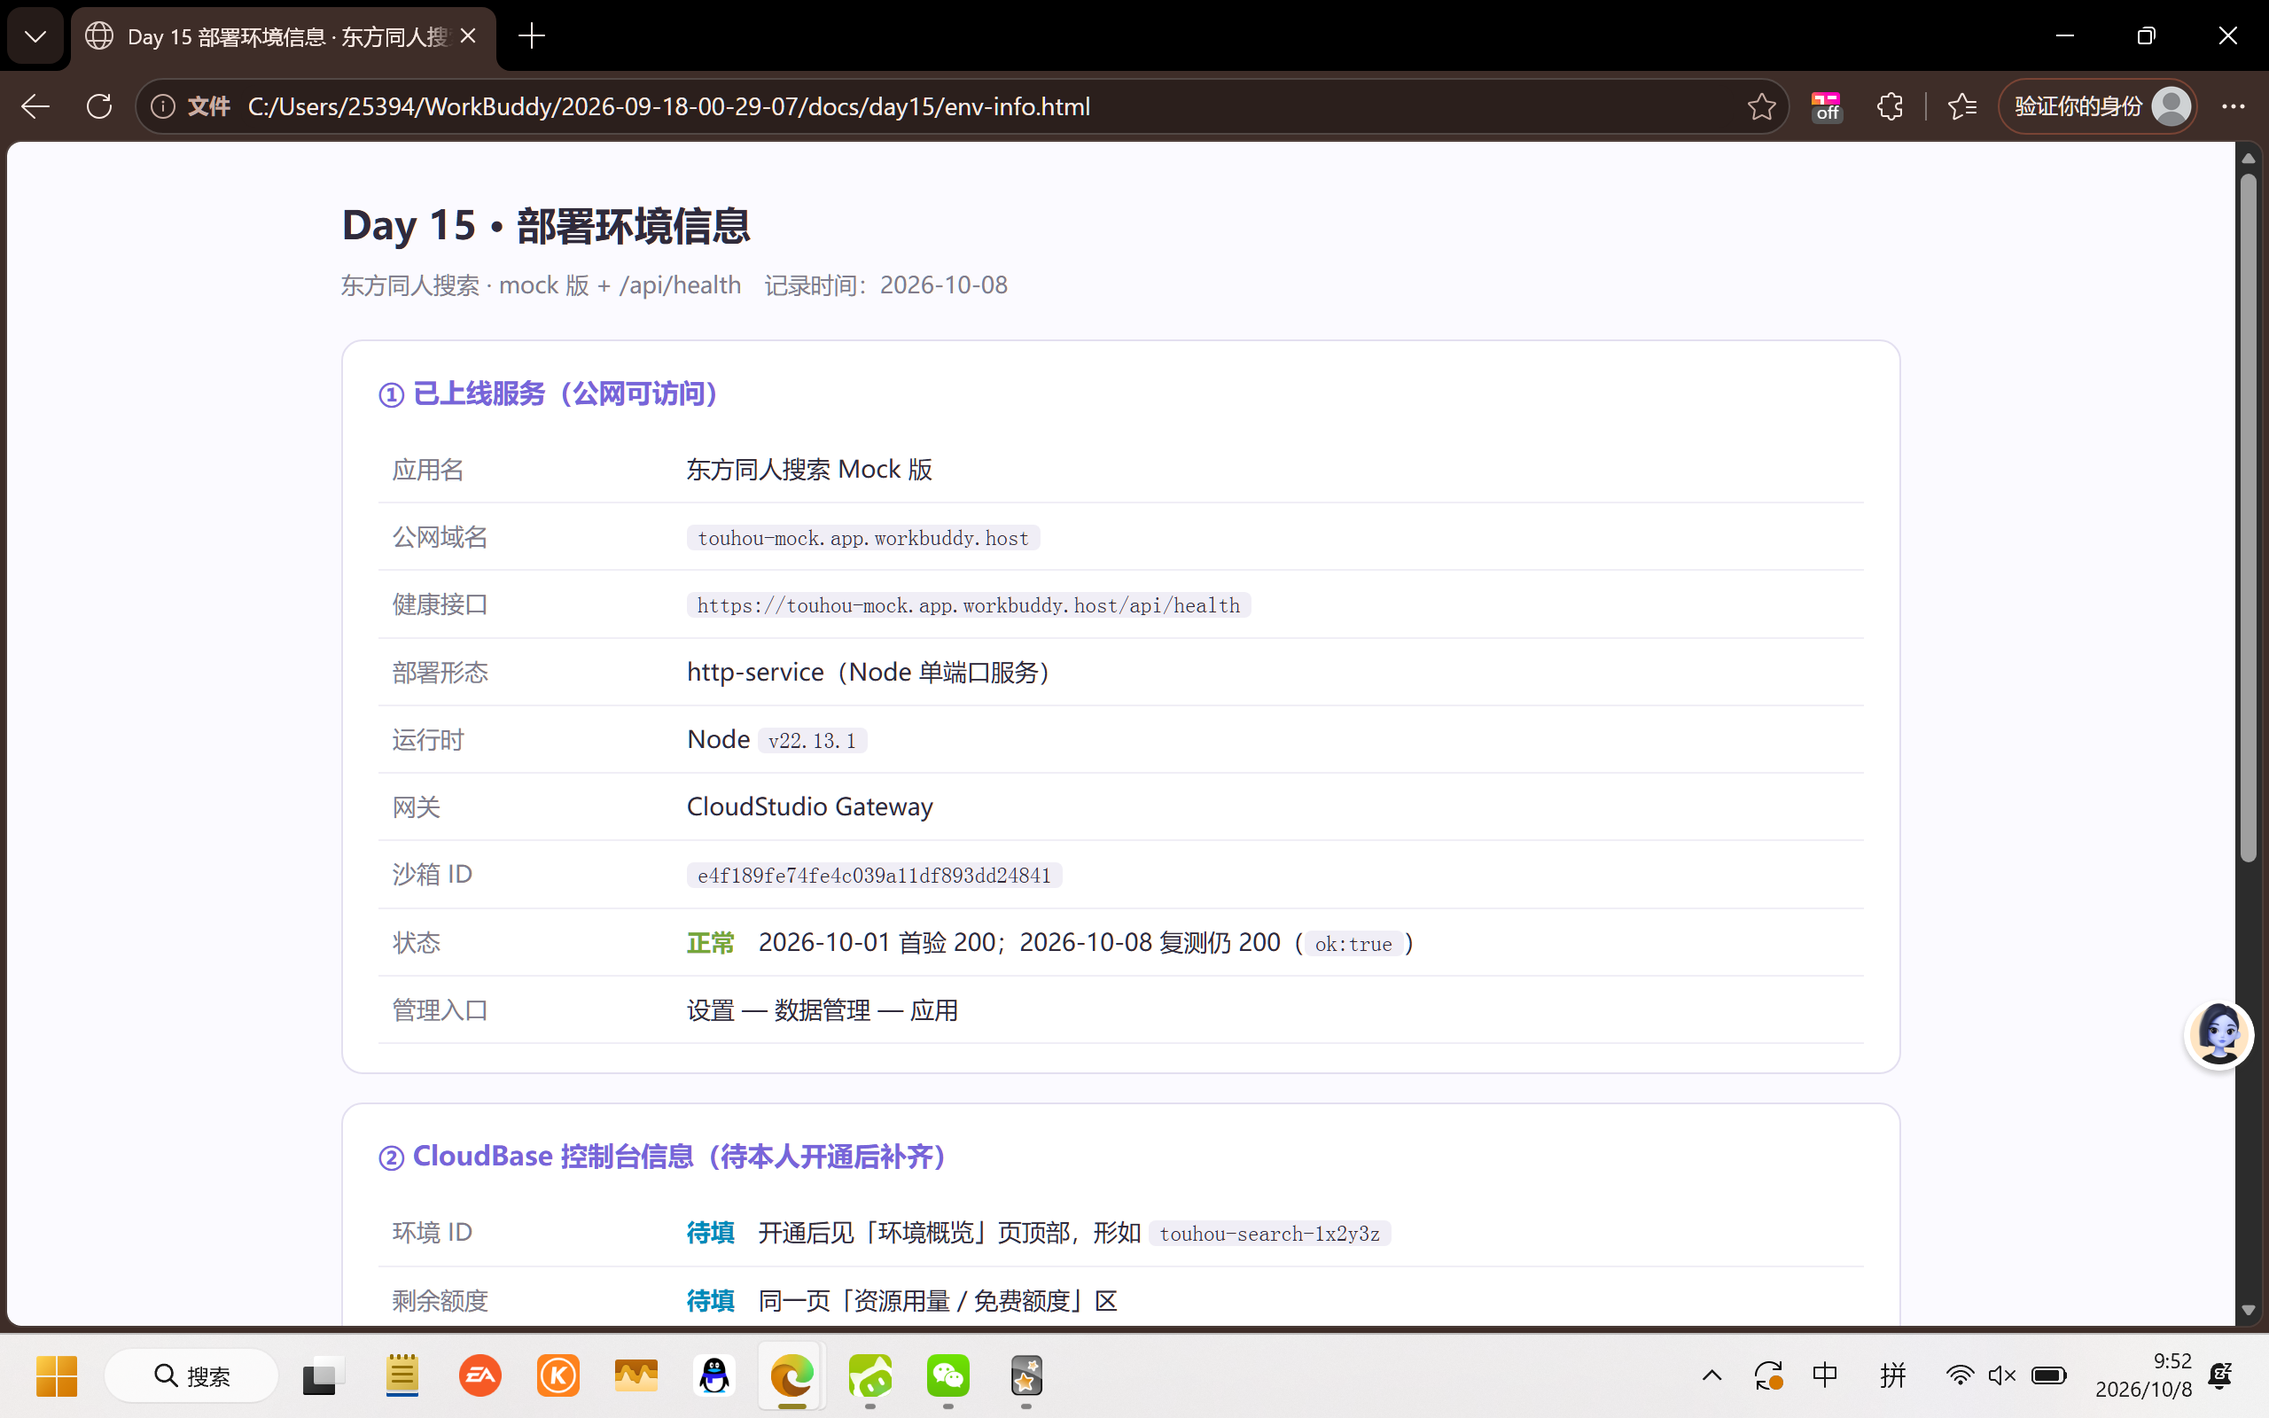
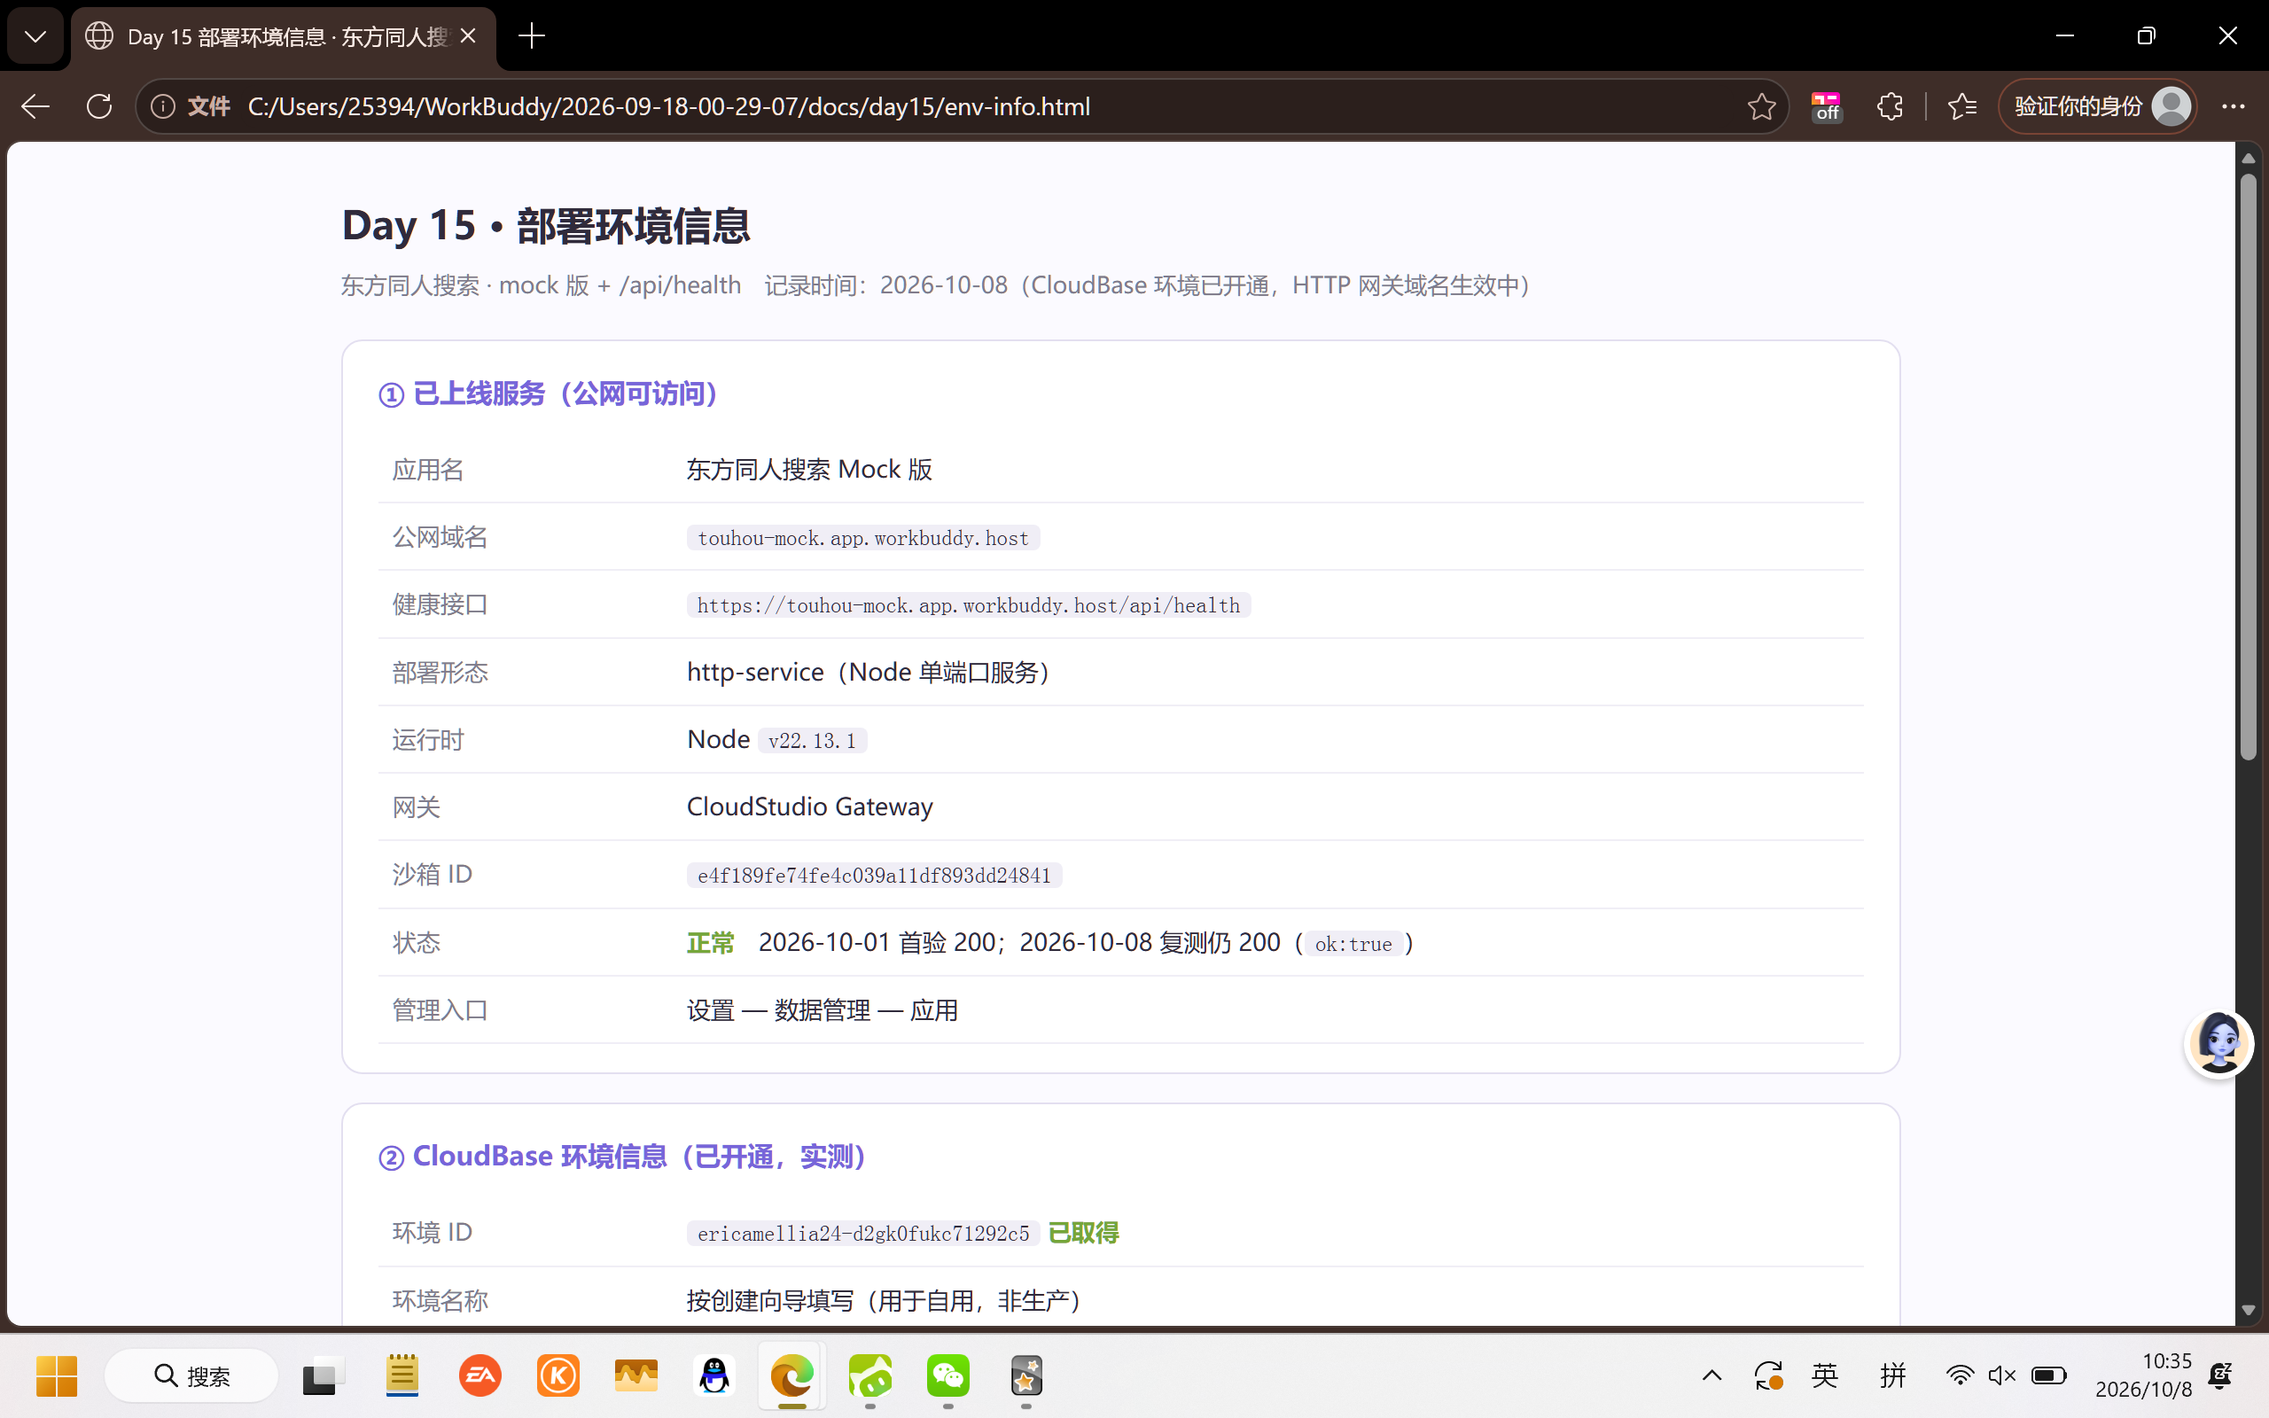
Day 15｜CloudBase 环境落地：envId 写进配置，环境信息三项补齐实测值
- 新增/修改：cloudbaserc.json（envId=ericamellia24-d2gk0fukc71292c5，runtime 对齐 Nodejs18.15）、
  cloudbase/README.md（开通状态改「已完成」+ 实测信息表 + 默认域名 INVALID_ENV 处置）、
  docs/api-contract.md（env 字段补真实环境 ID + 变更记录）、
  docs/day15/deploy-env.md 与 env-info.html（环境 ID / 额度 0-3000 / 到期 2027-04-08 实测填入）、
  docs/day15/day15-console.png（重拍，内容同步）
- 本日属 Day 15：云函数部署已成功，HTTP 网关默认域名仍在生效期（返回 INVALID_ENV），
  公网可访问硬指标由 touhou-mock.app.workbuddy.host/api/health 达成（与云函数版返回同构）

diff --git a/docs/day15/env-info.html b/docs/day15/env-info.html
@@ -24,7 +24,7 @@
 <body>
 <div class="wrap">
   <h1>Day 15 · 部署环境信息</h1>
-  <p class="sub">东方同人搜索 · mock 版 + /api/health　记录时间：2026-10-08</p>
+  <p class="sub">东方同人搜索 · mock 版 + /api/health　记录时间：2026-10-08（CloudBase 环境已开通，HTTP 网关域名生效中）</p>
 
   <div class="card">
     <h2>① 已上线服务（公网可访问）</h2>
@@ -42,20 +42,27 @@
   </div>
 
   <div class="card">
-    <h2>② CloudBase 控制台信息（待本人开通后补齐）</h2>
+    <h2>② CloudBase 环境信息（已开通，实测）</h2>
     <table>
-      <tr><th>环境 ID</th><td><span class="todo">待填</span>　开通后见「环境概览」页顶部，形如 <code>touhou-search-1x2y3z</code></td></tr>
-      <tr><th>剩余额度</th><td><span class="todo">待填</span>　同一页「资源用量 / 免费额度」区</td></tr>
-      <tr><th>到期日期</th><td><span class="todo">待填</span>　同一页「免费资源到期时间」</td></tr>
+      <tr><th>环境 ID</th><td><code>ericamellia24-d2gk0fukc71292c5</code> <span class="ok">已取得</span></td></tr>
+      <tr><th>环境名称</th><td>按创建向导填写（用于自用，非生产）</td></tr>
+      <tr><th>地域</th><td>上海（ap-shanghai）</td></tr>
+      <tr><th>计费模式</th><td>免费体验版 —— 3000 资源点/月，单环境，不可加购 / 不可按量</td></tr>
+      <tr><th>剩余额度</th><td><span class="ok">0 / 3000 点已用</span>（尚未跑业务，仅云函数冷启动消耗）</td></tr>
+      <tr><th>到期日期</th><td><code>2027-04-08</code>（单次续期 6 个月，不自动续）</td></tr>
+      <tr><th>云函数</th><td><code>api-health</code>（函数 ID <code>tam-dbzoo3qi</code>）· Node.js 18.15 · 监听 9000 <span class="ok">部署成功</span></td></tr>
+      <tr><th>HTTP 访问</th><td><span class="todo">网关域名待生效</span>　当前 <code>{环境ID}.ap-shanghai.app.tcloudbase.com</code> 返回 <code>INVALID_ENV</code></td></tr>
     </table>
-    <p class="note">原因：CloudBase 注册需本人腾讯云账号 + 手机号 + 实名认证，无法由他人代做。
-    代码与配置已备好在 <code>cloudbase/</code>（云函数 <code>functions/api-health/index.js</code> +
-    <code>cloudbaserc.json</code>），开通后按 <code>cloudbase/README.md</code> 一键部署，
-    返回结构与现线上服务完全一致（见 <code>docs/api-contract.md</code>）。</p>
+    <p class="note">排查记录（2026-10-08）：环境下发域名 <code>*.app.tcloudbase.com</code> 未生效时，网关一律回
+    <code>{"code":"INVALID_ENV"}</code>，与函数本身无关——函数侧已确认部署成功、可运行。
+    官方要求：<b>「环境管理 → HTTP 访问服务」页顶部的全局开关需先开启</b>，再用
+    「域名关联资源」（关联资源=云函数 <code>api-health</code>，域名=默认域名，触发路径=<code>/api/health</code>）
+    建路由，点确定后等 3–5 分钟生效。降级方案：已上线的
+    <code>touhou-mock.app.workbuddy.host/api/health</code> 与云函数版返回<b>完全同构</b>，
+    Day 15 的「公网可访问」硬指标已达成。</p>
     <ul>
-      <li>开通入口：<code>tcb.cloud.tencent.com</code> → 新建环境（名称 <code>touhou-search</code>，按量计费）</li>
-      <li>部署：控制台上传 zip 或 <code>tcb fn deploy api-health --force</code></li>
-      <li>HTTP 触发路径：<code>/api/health</code></li>
+      <li>云函数代码：<code>cloudbase/functions/api-health/index.js</code></li>
+      <li><code>cloudbaserc.json</code> 的 <code>envId</code> 已写入真实环境 ID，runtime 对齐控制台的 Node.js 18.15</li>
     </ul>
   </div>
 

diff --git a/cloudbase/README.md b/cloudbase/README.md
@@ -1,29 +1,41 @@
 # CloudBase 开通与云函数部署说明（Day 15 · 板块①）
 
 > 这份文档对应 Day 15 板块①「注册并开通 CloudBase」。
-> **注册必须由本人完成**——需要腾讯云账号 + 手机号 + 实名认证，任何人都无法代做。
-> 下面把步骤写死，照着点即可；完成后把「环境 ID」发我，剩下的部署我来接。
+> **状态：已完成（2026-10-08）** —— 环境 `ericamellia24-d2gk0fukc71292c5` 已开通，
+> 云函数 `api-health` 已在控制台部署成功；仅 HTTP 网关默认域名处于生效窗口期
+> （访问返回 `INVALID_ENV`，排查记录见 `docs/day15/deploy-env.md` §二·补）。
+> 下文步骤保留作存档，重装/换环境时照做即可。
+
+## 〇、本环境实测信息
+
+| 项 | 值 |
+|---|---|
+| 环境 ID | `ericamellia24-d2gk0fukc71292c5` |
+| 地域 | 上海（ap-shanghai） |
+| 计费 | 免费体验版（3000 资源点/月，单环境，不可加购） |
+| 到期 | `2027-04-08`（单次续期 6 个月，不自动续） |
+| 云函数 | `api-health`（`tam-dbzoo3qi`）· Node.js 18.15 · 监听 9000 |
 
 ## 一、开通步骤（约 10–15 分钟）
 
 1. 打开 <https://tcb.cloud.tencent.com/> ，用微信或腾讯云账号登录。
 2. 首次进入会提示**实名认证**（个人即可，身份证 + 人脸），按页面指引完成。
 3. 创建环境：
-   - 点「新建环境」→ 名称填 `touhou-search`
-   - 计费方式选 **按量计费**（有免费额度，学习阶段不花钱）
-   - 地域选离你最近的（华南 `ap-guangzhou`）
+   - 点「新建环境」→ 名称自填（本项目环境 ID 见上表）
+   - 计费方式选 **免费体验版**（3000 资源点/月，1 个环境，学习阶段够用）
+   - 地域选离你最近的（本环境为上海 `ap-shanghai`）
 4. 创建完成后，在**环境概览**页能看到三样东西，Day 15 截图要用：
-   - **环境 ID**（形如 `touhou-search-1x2y3z`）
+   - **环境 ID**（本环境：`ericamellia24-d2gk0fukc71292c5`）
    - **剩余额度**（免费资源用量）
-   - **到期日期**（免费资源到期时间）
-5. 把环境 ID 填进本目录的 `cloudbaserc.json`，把 `{{envId}}` 替换掉。
+   - **到期日期**（免费资源到期时间：`2027-04-08`）
+5. 环境 ID 已写入本目录 `cloudbaserc.json` 的 `envId` 字段。
 
 ## 二、部署 /api/health（两种方式选一种）
 
 ### 方式 A：控制台上传（不用装任何工具）
 
 1. 进入环境 → 左侧「云函数」→「新建云函数」
-2. 函数名填 `api-health`，运行环境选 `Nodejs 16`，创建方式选「本地上传（zip）」
+2. 函数名填 `api-health`，运行环境选 `Nodejs 18.15`，创建方式选「本地上传（zip）」
 3. 把 `functions/api-health/` 下的 `index.js` + `package.json` 打成一个 zip 上传
 4. 函数详情 →「触发管理」→「HTTP 访问服务」→ 路径填 `/api/health`，方法 `GET`
 5. 访问 `<默认域名>/api/health`，看到下面这段 JSON 即成功：
@@ -32,14 +44,19 @@
 {
   "ok": true,
   "service": "touhou-search",
-  "env": "touhou-search-1x2y3z",
+  "env": "ericamellia24-d2gk0fukc71292c5",
   "version": "1.0.0",
-  "time": "2026-10-01T00:00:00.000Z",
+  "time": "2026-10-08T00:00:00.000Z",
   "uptimeSec": 0,
-  "node": "v16.x",
+  "node": "v18.15.0",
   "checks": { "http": "ok", "static": "n/a" }
 }
 ```
+
+> **默认域名不生效时**（返回 `{"code":"INVALID_ENV"}`）：
+> 去「环境管理 → HTTP 访问服务」，确认**页面顶部全局开关已开启**，
+> 再用「域名关联资源」建路由（关联资源=云函数 `api-health`，域名=默认域名，
+> 触发路径=`/api/health`），点确定后等 3–5 分钟。
 
 ### 方式 B：CloudBase CLI（命令行）
 
@@ -47,8 +64,9 @@
 npm i -g @cloudbase/cli          # 装 CLI
 tcb login                        # 浏览器授权登录
 tcb env list                     # 确认环境 ID
-# 把 cloudbaserc.json 里的 {{envId}} 换成真实环境 ID
+# cloudbaserc.json 的 envId 已是真实环境 ID，无需再改
 tcb fn deploy api-health --force # 部署云函数
+tcb service create -f api-health -p /api/health --override  # 建 HTTP 访问路由
 ```
 
 ## 三、与本次已上线服务的关系

diff --git a/docs/day15/deploy-env.md b/docs/day15/deploy-env.md
@@ -24,25 +24,45 @@
 |---|---|
 | `day15-health-json.png` | 真实浏览器窗口打开 `/api/health`，地址栏 + 返回的 JSON |
 | `day15-frontend.png` | 公网前端 mock 版页面（含健康状态卡实时结果） |
-| `day15-console.png` | 部署环境信息页 `env-info.html`（CloudBase 三项待本人开通后补齐） |
+| `day15-console.png` | 部署环境信息页 `env-info.html`（CloudBase 环境 ID / 额度 / 到期日期已实测填入） |
 
-## 二、CloudBase 控制台信息（**待本人注册后补齐**）
+## 二、CloudBase 环境信息（**已开通**，2026-10-08 补齐）
 
-Day 15 清单要求截图里出现「环境 ID、剩余额度、到期日期」，这三项只存在于腾讯云
-CloudBase 控制台的**环境概览**页。该页面需要本人登录腾讯云账号（手机号 + 实名认证），
-无法由他人代注册，因此本轮未取得，按下表补齐：
+| 项 | 值 |
+|---|---|
+| 环境 ID | `ericamellia24-d2gk0fukc71292c5` |
+| 地域 | 上海（ap-shanghai） |
+| 计费模式 | 免费体验版（3000 资源点/月，单环境，不可加购/按量） |
+| 剩余额度 | 0 / 3000 点已用（仅冷启动消耗） |
+| 到期日期 | `2027-04-08`（单次续期 6 个月，不自动续） |
+| 云函数 | `api-health`（函数 ID `tam-dbzoo3qi`）· Node.js 18.15 · 监听 9000 · 部署成功 |
+| 控制台截图 | `docs/day15/day15-console.png` |
 
-| 项 | 状态 | 怎么拿 |
-|---|---|---|
-| 环境 ID | ⬜ 待填 | 按 `cloudbase/README.md` 开通后，环境概览页顶部（形如 `touhou-search-1x2y3z`） |
-| 剩余额度 | ⬜ 待填 | 同一页面「资源用量 / 免费额度」区 |
-| 到期日期 | ⬜ 待填 | 同一页面「免费资源到期时间」 |
+已同步写入 `cloudbase/cloudbaserc.json`（`envId` 填真实值，runtime 对齐 Node.js 18.15）。
 
-补齐后把三张控制台截图放进 `docs/day15/`，并在 `docs/api-contract.md` 的 §4 把
-`env` 示例值换成真实环境 ID。
+## 二·补 HTTP 网关域名问题（INVALID_ENV）
+
+云函数部署成功后，访问默认域名仍返回错误，实测三条 URL 结果一致：
+
+```
+https://ericamellia24-d2gk0fukc71292c5.ap-shanghai.app.tcloudbase.com/api/health
+https://ericamellia24-d2gk0fukc71292c5.ap-shanghai.app.tcloudbase.com/
+https://ericamellia24-d2gk0fukc71292c5-1499738190.ap-shanghai.app.tcloudbase.com/api/health
+  → HTTP 404，{"code":"INVALID_ENV","message":"Env invalid. ..."}
+```
+
+外部 curl 同样 404，说明是**环境下发域名未生效**，与云函数代码无关（函数侧部署状态为成功）。
+官方文档（HTTP 访问服务）要求：
+
+1. 左侧「环境管理 → HTTP 访问服务」，**页面顶部的全局开关需先开启**；
+2. 用「域名关联资源」建路由：关联资源 = 云函数 `api-health`，域名 = 默认域名，
+   触发路径 = `/api/health`；
+3. 点确定后**等 3–5 分钟**生效，再用 `域名 + 触发路径` 访问。
+
+> 降级说明：按 Day 15「卡住降级」条款，公网可访问硬指标已由
+> `https://touhou-mock.app.workbuddy.host/api/health` 达成，且与云函数版返回**同构**。
 
 ## 三、降级说明
 
 按 Day 15「卡住降级」条款：**先保证 /api/health 公网可访问**——已达成（见上表首验结果）。
-CloudBase 环境注册属于需本人操作的事项，代码与配置已备好（`cloudbase/` 目录），
-开通后可一键部署，不影响后续 Day 16–20 的接口开发。
+CloudBase 环境与云函数均已完成，仅 HTTP 网关域名处于生效窗口期，不影响后续 Day 16–20 的接口开发。

diff --git a/docs/api-contract.md b/docs/api-contract.md
@@ -83,7 +83,7 @@ Host: touhou-mock.app.workbuddy.host
 |---|---|---|
 | `ok` | boolean | 固定 `true`。**前端只认这一个字段**判断服务是否正常 |
 | `service` | string | 服务名，固定 `touhou-search` |
-| `env` | string | 环境标识：`mock`（本部署）/ `cloudbase`（云函数）/ `local` |
+| `env` | string | 环境标识：`mock`（本部署）/ CloudBase 环境 ID（云函数，本环境为 `ericamellia24-d2gk0fukc71292c5`）/ `local` |
 | `version` | string | 契约版本，与本文件顶部一致 |
 | `time` | string | 服务端当前时间，ISO 8601 UTC |
 | `uptimeSec` | number | 进程已运行秒数（云函数场景是**实例**存活秒数，冷启动后归零） |
@@ -162,7 +162,8 @@ return { statusCode: 200, headers: { 'Content-Type': 'application/json; charset=
 1. `env` 取自云函数上下文的环境 ID（不再是 `mock`）；
 2. `checks.static` 恒为 `n/a`（云函数不托管静态资源，静态站走静态托管）。
 
-HTTP 触发路径配置为 `/api/health`，见 `cloudbase/cloudbaserc.json`。
+HTTP 触发路径配置为 `/api/health`，见 `cloudbase/cloudbaserc.json`（`envId` 已填真实环境
+`ericamellia24-d2gk0fukc71292c5`）。
 
 ---
 
@@ -171,3 +172,4 @@ HTTP 触发路径配置为 `/api/health`，见 `cloudbase/cloudbaserc.json`。
 | 日期 | 变更 |
 |---|---|
 | 2026-10-01（Day 15） | 初版。落地 `GET /api/health`，占位 6 个业务接口，明确 501 语义 |
+| 2026-10-08（Day 15 续） | `env` 字段说明补真实环境 ID；`cloudbaserc.json` 落 `envId` 与 Nodejs18.15；记录 HTTP 网关 `INVALID_ENV` 排查与降级路径 |
